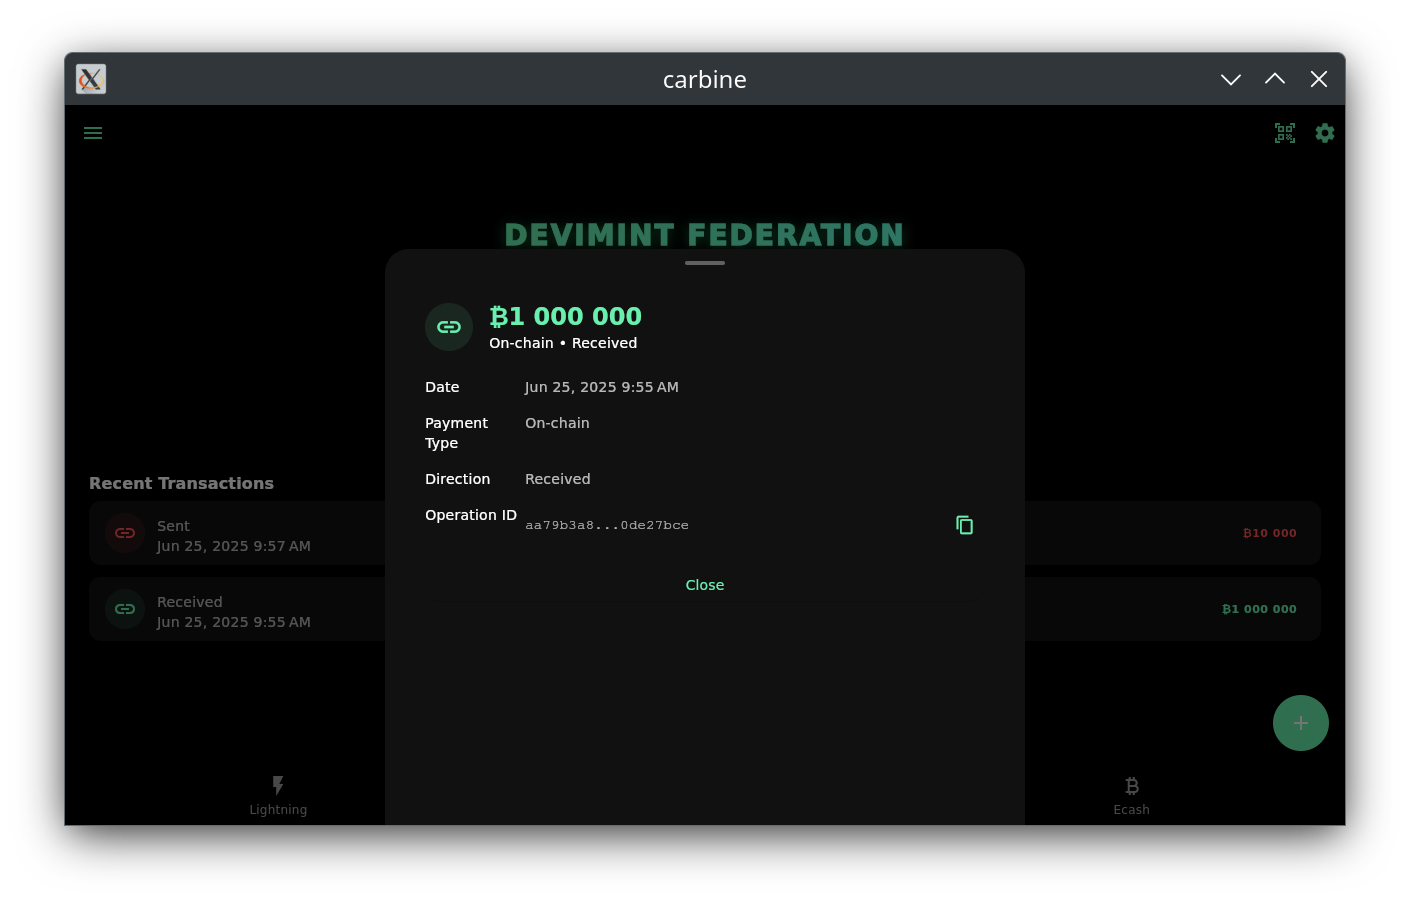
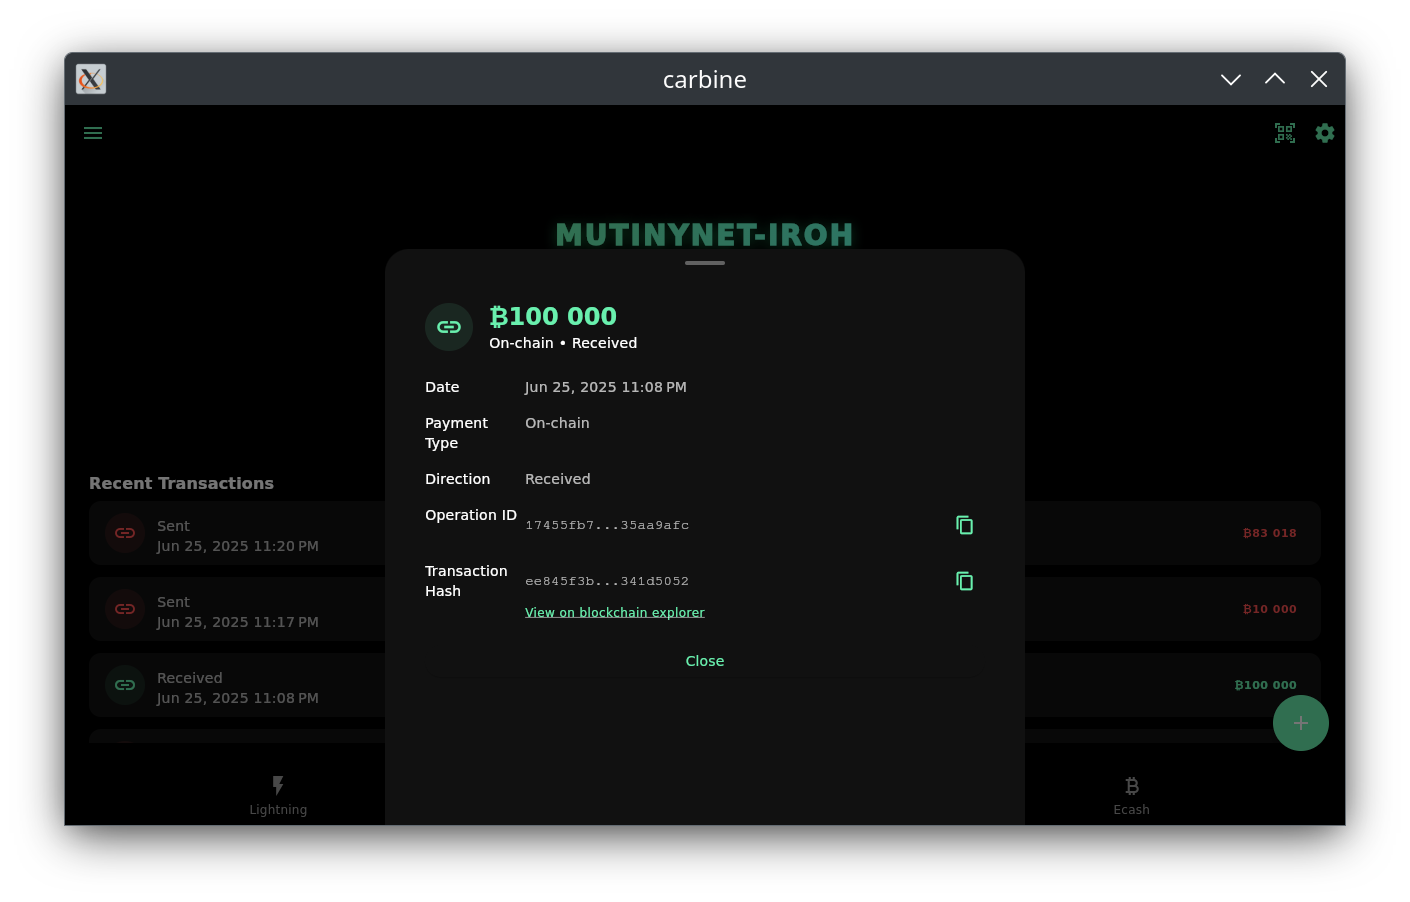
wip: rough approach for block timestamp

diff --git a/lib/multimint.dart b/lib/multimint.dart
@@ -9,7 +9,7 @@ import 'package:flutter_rust_bridge/flutter_rust_bridge_for_generated.dart';
 import 'package:freezed_annotation/freezed_annotation.dart' hide protected;
 part 'multimint.freezed.dart';
 
-// These functions are ignored because they are not marked as `pub`: `await_receive_lnv1`, `await_receive_lnv2`, `await_send_lnv1`, `await_send_lnv2`, `build_client`, `cache_btc_price`, `cache_federation_meta`, `compute_receive_amount`, `compute_send_amount`, `derive_federation_secret`, `finish_active_subscriptions`, `get_client_database`, `get_lnv1_amount_from_meta`, `get_lnv1_receive_tx`, `get_lnv1_send_tx`, `get_lnv2_amount_from_meta`, `get_or_build_temp_client`, `has_federation`, `invoice_routes_back_to_federation`, `lnv1_select_gateway`, `lnv1_update_gateway_cache`, `lnv2_select_gateway`, `load_clients`, `monitor_all_unused_pegin_addresses`, `pay_lnv1`, `pay_lnv2`, `receive_amount_after_fees`, `receive_lnv1`, `receive_lnv2`, `spawn_await_ecash_reissue`, `spawn_await_ecash_send`, `spawn_await_receive`, `spawn_await_send`, `spawn_cache_task`, `spawn_pegin_address_watcher`, `spawn_recovery_progress`, `watch_pegin_address`
+// These functions are ignored because they are not marked as `pub`: `await_receive_lnv1`, `await_receive_lnv2`, `await_send_lnv1`, `await_send_lnv2`, `build_client`, `cache_btc_price`, `cache_federation_meta`, `compute_receive_amount`, `compute_send_amount`, `derive_federation_secret`, `fetch_tx_block_time`, `finish_active_subscriptions`, `get_client_database`, `get_lnv1_amount_from_meta`, `get_lnv1_receive_tx`, `get_lnv1_send_tx`, `get_lnv2_amount_from_meta`, `get_or_build_temp_client`, `has_federation`, `invoice_routes_back_to_federation`, `lnv1_select_gateway`, `lnv1_update_gateway_cache`, `lnv2_select_gateway`, `load_clients`, `monitor_all_unused_pegin_addresses`, `pay_lnv1`, `pay_lnv2`, `receive_amount_after_fees`, `receive_lnv1`, `receive_lnv2`, `spawn_await_ecash_reissue`, `spawn_await_ecash_send`, `spawn_await_receive`, `spawn_await_send`, `spawn_cache_task`, `spawn_pegin_address_watcher`, `spawn_recovery_progress`, `watch_pegin_address`
 // These types are ignored because they are neither used by any `pub` functions nor (for structs and enums) marked `#[frb(unignore)]`: `ClientType`
 // These function are ignored because they are on traits that is not defined in current crate (put an empty `#[frb]` on it to unignore): `assert_receiver_is_total_eq`, `assert_receiver_is_total_eq`, `assert_receiver_is_total_eq`, `assert_receiver_is_total_eq`, `assert_receiver_is_total_eq`, `assert_receiver_is_total_eq`, `assert_receiver_is_total_eq`, `assert_receiver_is_total_eq`, `assert_receiver_is_total_eq`, `assert_receiver_is_total_eq`, `assert_receiver_is_total_eq`, `assert_receiver_is_total_eq`, `assert_receiver_is_total_eq`, `assert_receiver_is_total_eq`, `assert_receiver_is_total_eq`, `clone`, `clone`, `clone`, `clone`, `clone`, `clone`, `clone`, `clone`, `clone`, `clone`, `clone`, `clone`, `clone`, `clone`, `clone`, `clone`, `clone`, `clone`, `consensus_decode_partial_from_finite_reader`, `consensus_decode_partial_from_finite_reader`, `consensus_decode_partial_from_finite_reader`, `consensus_encode`, `consensus_encode`, `consensus_encode`, `eq`, `eq`, `eq`, `eq`, `eq`, `eq`, `eq`, `eq`, `eq`, `eq`, `eq`, `eq`, `eq`, `eq`, `eq`, `eq`, `fmt`, `fmt`, `fmt`, `fmt`, `fmt`, `fmt`, `fmt`, `fmt`, `fmt`, `fmt`, `fmt`, `fmt`, `fmt`, `fmt`, `fmt`, `fmt`, `fmt`, `fmt`, `fmt`, `fmt`, `from`
 
@@ -455,6 +455,7 @@ class Transaction {
   final BigInt timestamp;
   final Uint8List operationId;
   final String? txid;
+  final BigInt? blockTime;
 
   const Transaction({
     required this.received,
@@ -463,6 +464,7 @@ class Transaction {
     required this.timestamp,
     required this.operationId,
     this.txid,
+    this.blockTime,
   });
 
   @override
@@ -472,7 +474,8 @@ class Transaction {
       module.hashCode ^
       timestamp.hashCode ^
       operationId.hashCode ^
-      txid.hashCode;
+      txid.hashCode ^
+      blockTime.hashCode;
 
   @override
   bool operator ==(Object other) =>
@@ -484,7 +487,8 @@ class Transaction {
           module == other.module &&
           timestamp == other.timestamp &&
           operationId == other.operationId &&
-          txid == other.txid;
+          txid == other.txid &&
+          blockTime == other.blockTime;
 }
 
 class Utxo {

diff --git a/lib/frb_generated.dart b/lib/frb_generated.dart
@@ -6779,8 +6779,8 @@ class RustLibApiImpl extends RustLibApiImplPlatform implements RustLibApi {
   Transaction dco_decode_transaction(dynamic raw) {
     // Codec=Dco (DartCObject based), see doc to use other codecs
     final arr = raw as List<dynamic>;
-    if (arr.length != 6)
-      throw Exception('unexpected arr length: expect 6 but see ${arr.length}');
+    if (arr.length != 7)
+      throw Exception('unexpected arr length: expect 7 but see ${arr.length}');
     return Transaction(
       received: dco_decode_bool(arr[0]),
       amount: dco_decode_u_64(arr[1]),
@@ -6788,6 +6788,7 @@ class RustLibApiImpl extends RustLibApiImplPlatform implements RustLibApi {
       timestamp: dco_decode_u_64(arr[3]),
       operationId: dco_decode_list_prim_u_8_strict(arr[4]),
       txid: dco_decode_opt_String(arr[5]),
+      blockTime: dco_decode_opt_box_autoadd_u_64(arr[6]),
     );
   }
 
@@ -8133,6 +8134,7 @@ class RustLibApiImpl extends RustLibApiImplPlatform implements RustLibApi {
     var var_timestamp = sse_decode_u_64(deserializer);
     var var_operationId = sse_decode_list_prim_u_8_strict(deserializer);
     var var_txid = sse_decode_opt_String(deserializer);
+    var var_blockTime = sse_decode_opt_box_autoadd_u_64(deserializer);
     return Transaction(
       received: var_received,
       amount: var_amount,
@@ -8140,6 +8142,7 @@ class RustLibApiImpl extends RustLibApiImplPlatform implements RustLibApi {
       timestamp: var_timestamp,
       operationId: var_operationId,
       txid: var_txid,
+      blockTime: var_blockTime,
     );
   }
 
@@ -9521,6 +9524,7 @@ class RustLibApiImpl extends RustLibApiImplPlatform implements RustLibApi {
     sse_encode_u_64(self.timestamp, serializer);
     sse_encode_list_prim_u_8_strict(self.operationId, serializer);
     sse_encode_opt_String(self.txid, serializer);
+    sse_encode_opt_box_autoadd_u_64(self.blockTime, serializer);
   }
 
   @protected

diff --git a/lib/widgets/transaction_detail_modal.dart b/lib/widgets/transaction_detail_modal.dart
@@ -88,7 +88,7 @@ class TransactionDetailModal extends StatelessWidget {
           // Transaction details
           _buildDetailRow(
             context,
-            'Date',
+            'Address Created',
             formattedDate,
           ),
           
@@ -125,6 +125,16 @@ class TransactionDetailModal extends StatelessWidget {
               'Transaction Hash',
               transaction.txid!,
             ),
+            
+            // Show block inclusion time if available
+            if (transaction.blockTime != null) ...[
+              const SizedBox(height: 16),
+              _buildDetailRow(
+                context,
+                'Block Inclusion Time',
+                _formatBlockTime(transaction.blockTime!),
+              ),
+            ],
           ],
           
           const SizedBox(height: 24),
@@ -234,6 +244,11 @@ class TransactionDetailModal extends StatelessWidget {
       return '${txid.substring(0, 8)}...${txid.substring(txid.length - 8)}';
     }
     return txid;
+  }
+
+  String _formatBlockTime(BigInt blockTime) {
+    final dateTime = DateTime.fromMillisecondsSinceEpoch(blockTime.toInt() * 1000);
+    return '${dateTime.day}/${dateTime.month}/${dateTime.year} ${dateTime.hour.toString().padLeft(2, '0')}:${dateTime.minute.toString().padLeft(2, '0')}';
   }
 
   Widget _buildTxidRow(BuildContext context, String label, String txid) {

diff --git a/rust/carbine_fedimint/src/multimint.rs b/rust/carbine_fedimint/src/multimint.rs
@@ -132,6 +132,7 @@ pub struct Transaction {
     pub timestamp: u64,
     pub operation_id: Vec<u8>,
     pub txid: Option<String>,
+    pub block_time: Option<u64>,
 }
 
 #[derive(Debug, Serialize, Clone, Eq, PartialEq)]
@@ -734,6 +735,34 @@ impl Multimint {
             ))
             .await;
         }
+    }
+
+    async fn fetch_tx_block_time(&self, txid: &str, network: bitcoin::Network) -> Option<u64> {
+        let api_url = match network {
+            bitcoin::Network::Bitcoin => "https://mempool.space/api".to_string(),
+            bitcoin::Network::Signet => "https://mutinynet.com/api".to_string(),
+            bitcoin::Network::Regtest => {
+                "http://localhost:22413".to_string()
+            }
+            _ => return None,
+        };
+
+        let client = reqwest::Client::new();
+        let resp = client
+            .get(format!("{}/tx/{}", api_url, txid))
+            .send()
+            .await
+            .ok()?
+            .error_for_status()
+            .ok()?
+            .text()
+            .await
+            .ok()?;
+
+        let json: serde_json::Value = serde_json::from_str(&resp).ok()?;
+        json.get("status")
+            .and_then(|s| s.get("block_time"))
+            .and_then(|t| t.as_u64())
     }
 
     pub async fn get_cached_federation_meta(
@@ -1737,6 +1766,7 @@ impl Multimint {
                                         timestamp,
                                         operation_id: key.operation_id.0.to_vec(),
                                         txid: None,
+                                        block_time: None,
                                     })
                                 } else {
                                     None
@@ -1752,6 +1782,7 @@ impl Multimint {
                                         timestamp,
                                         operation_id: key.operation_id.0.to_vec(),
                                         txid: None,
+                                        block_time: None,
                                     })
                                 } else {
                                     None
@@ -1798,6 +1829,7 @@ impl Multimint {
                                     timestamp,
                                     operation_id: key.operation_id.0.to_vec(),
                                     txid: None,
+                                    block_time: None,
                                 })
                             }
                             MintOperationMetaVariant::Reissuance { .. } => {
@@ -1812,6 +1844,7 @@ impl Multimint {
                                         timestamp,
                                         operation_id: key.operation_id.0.to_vec(),
                                         txid: None,
+                                        block_time: None,
                                     })
                                 } else {
                                     None
@@ -1827,13 +1860,23 @@ impl Multimint {
                                 if let Some(DepositStateV2::Claimed { btc_deposited, btc_out_point }) = outcome
                                 {
                                     let amount = Amount::from_sats(btc_deposited.to_sat()).msats;
+                                    let txid = btc_out_point.txid.to_string();
+                                    
+                                    // Fetch block time from explorer
+                                    let block_time = if let Ok(wallet_module) = client.get_first_module::<WalletClientModule>() {
+                                        self.fetch_tx_block_time(&txid, wallet_module.get_network()).await
+                                    } else {
+                                        None
+                                    };
+                                    
                                     Some(Transaction {
                                         received: true,
                                         amount,
                                         module: "wallet".to_string(),
                                         timestamp,
                                         operation_id: key.operation_id.0.to_vec(),
-                                        txid: Some(btc_out_point.txid.to_string()),
+                                        txid: Some(txid),
+                                        block_time,
                                     })
                                 } else {
                                     None
@@ -1842,13 +1885,23 @@ impl Multimint {
                             WalletOperationMetaVariant::Withdraw { amount, .. } => {
                                 let outcome = op_log_val.outcome::<WithdrawState>();
                                 if let Some(WithdrawState::Succeeded(txid)) = outcome {
+                                    let txid_str = txid.to_string();
+                                    
+                                    // Fetch block time from explorer
+                                    let block_time = if let Ok(wallet_module) = client.get_first_module::<WalletClientModule>() {
+                                        self.fetch_tx_block_time(&txid_str, wallet_module.get_network()).await
+                                    } else {
+                                        None
+                                    };
+                                    
                                     Some(Transaction {
                                         received: false,
                                         amount: Amount::from_sats(amount.to_sat()).msats,
                                         module: "wallet".to_string(),
                                         timestamp,
                                         operation_id: key.operation_id.0.to_vec(),
-                                        txid: Some(txid.to_string()),
+                                        txid: Some(txid_str),
+                                        block_time,
                                     })
                                 } else {
                                     None
@@ -1893,6 +1946,7 @@ impl Multimint {
             timestamp,
             operation_id: operation_id.0.to_vec(),
             txid: None,
+            block_time: None,
         };
 
         // First check if the send was over the Lightning network
@@ -1932,6 +1986,7 @@ impl Multimint {
                 timestamp,
                 operation_id: operation_id.0.to_vec(),
                 txid: None,
+                block_time: None,
             }),
             _ => None,
         }

diff --git a/rust/carbine_fedimint/src/frb_generated.rs b/rust/carbine_fedimint/src/frb_generated.rs
@@ -7859,6 +7859,7 @@ impl SseDecode for crate::multimint::Transaction {
         let mut var_timestamp = <u64>::sse_decode(deserializer);
         let mut var_operationId = <Vec<u8>>::sse_decode(deserializer);
         let mut var_txid = <Option<String>>::sse_decode(deserializer);
+        let mut var_blockTime = <Option<u64>>::sse_decode(deserializer);
         return crate::multimint::Transaction {
             received: var_received,
             amount: var_amount,
@@ -7866,6 +7867,7 @@ impl SseDecode for crate::multimint::Transaction {
             timestamp: var_timestamp,
             operation_id: var_operationId,
             txid: var_txid,
+            block_time: var_blockTime,
         };
     }
 }
@@ -9052,6 +9054,7 @@ impl flutter_rust_bridge::IntoDart for crate::multimint::Transaction {
             self.timestamp.into_into_dart().into_dart(),
             self.operation_id.into_into_dart().into_dart(),
             self.txid.into_into_dart().into_dart(),
+            self.block_time.into_into_dart().into_dart(),
         ]
         .into_dart()
     }
@@ -9930,6 +9933,7 @@ impl SseEncode for crate::multimint::Transaction {
         <u64>::sse_encode(self.timestamp, serializer);
         <Vec<u8>>::sse_encode(self.operation_id, serializer);
         <Option<String>>::sse_encode(self.txid, serializer);
+        <Option<u64>>::sse_encode(self.block_time, serializer);
     }
 }
 
